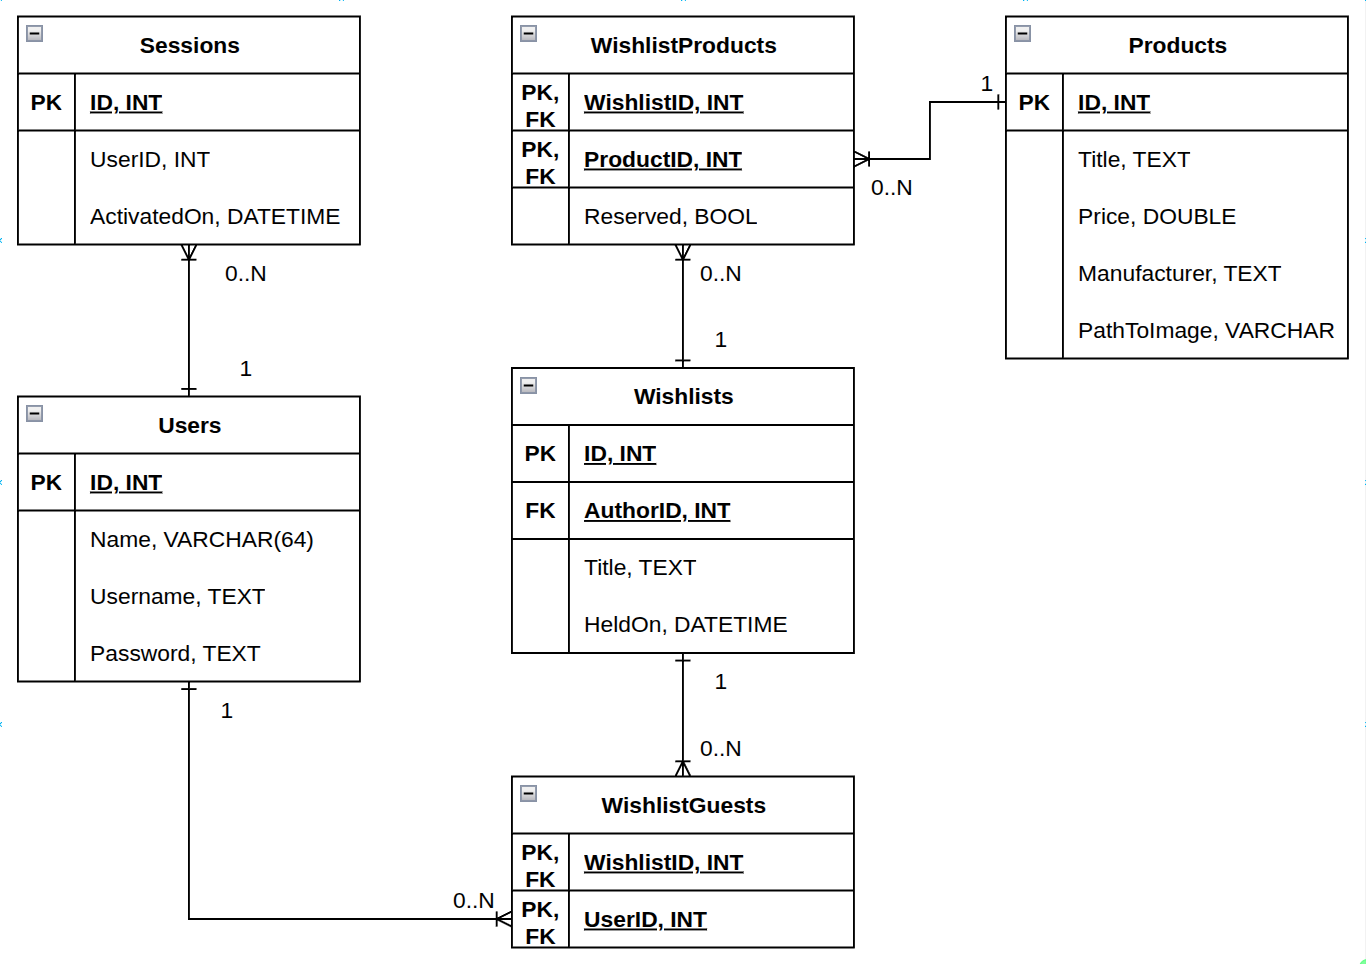
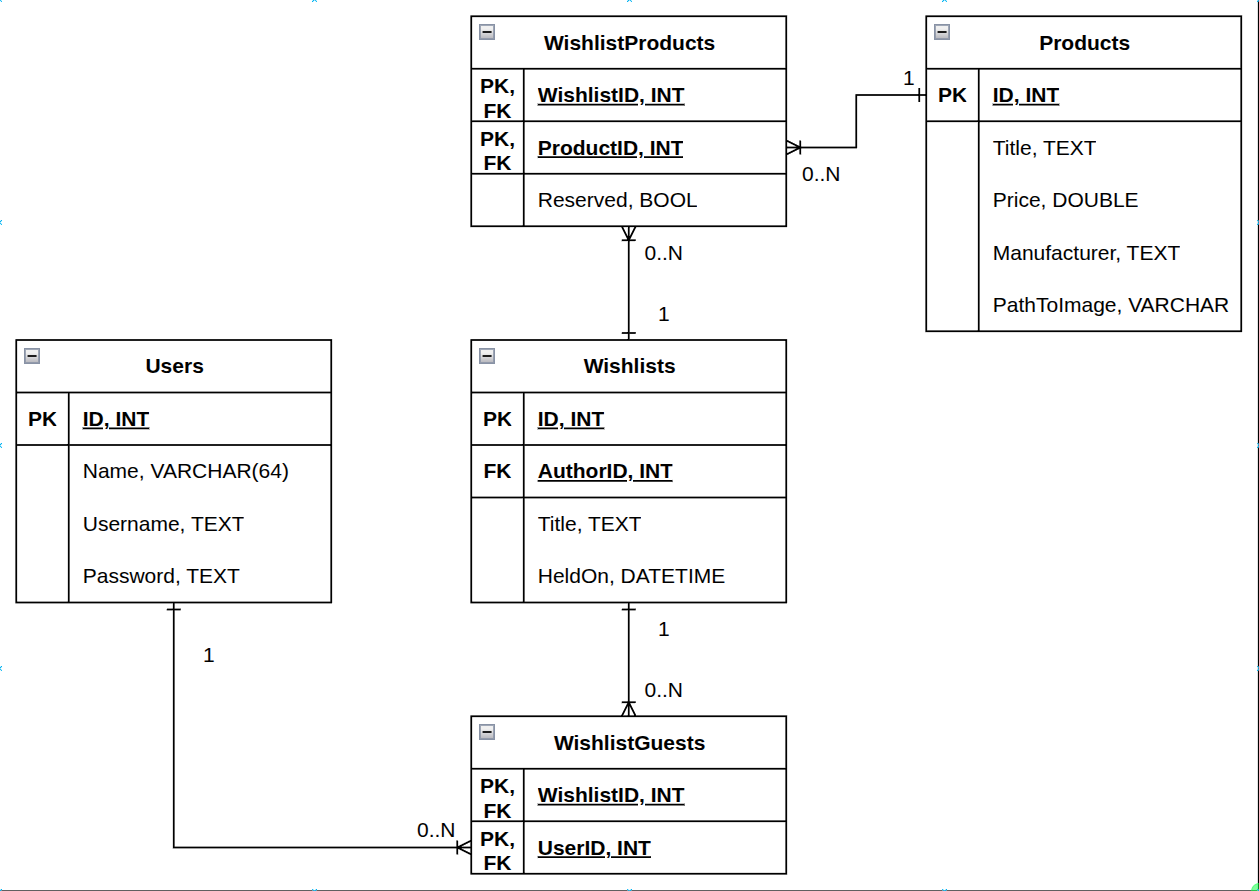
IKKE FÆRDIG; MERGE IKKE ENDNU.
Konfigureret MySQL for JDBC.
Opdateret ER-diagram (Sessions styres automatisk, JDBC Sessions laver selv tabel).

Delete-funktioner til wishlist, UserRepo-funktioner.

diff --git a/src/main/java/com/wishlist/Repository/UserRepository.java b/src/main/java/com/wishlist/Repository/UserRepository.java
@@ -1,6 +1,8 @@
 package com.wishlist.Repository;
 
+import com.wishlist.Model.User;
 import com.wishlist.Model.UserRowMapper;
+import jakarta.servlet.http.HttpSession;
 import org.springframework.beans.factory.annotation.Value;
 import org.springframework.jdbc.core.JdbcTemplate;
 
@@ -22,5 +24,31 @@ public class UserRepository {
         this.userRowMapper = userRowMapper;
     }
 
+    public int addUser(User user) {
+        return jdbcTemplate.update("INSERT IGNORE INTO Users (Name, Username, Password) VALUES (?, ?, ?);",
+                user.getName(), user.getUsername(), user.getPassword());
+    }
 
+    // Todo: Select which one we'll use when templates are done.
+    public int deleteUser(User user) {
+        return jdbcTemplate.update("DELETE FROM Users WHERE ID = ?;", user.getID());
+    }
+
+    public int deleteUserByID(int userID) {
+        return jdbcTemplate.update("DELETE FROM Users WHERE ID = ?;", userID);
+    }
+
+    public boolean isLoggedIn(HttpSession session) {
+        return !session.getAttribute("username").toString().isEmpty();
+    }
+
+    public boolean canViewWishlist(int wishlistID, int userID) {
+        return Boolean.TRUE.equals(jdbcTemplate.queryForObject("SELECT COUNT(*) > 0 FROM WishlistGuests WHERE WishlistID = ? AND UserID = ?;",
+                boolean.class, wishlistID, userID));
+    }
+
+    public int reserveWish(int wishlistID, int productID) {
+        return jdbcTemplate.update("UPDATE WishlistProducts SET Reserved = TRUE WHERE WishlistID = ? AND ProductID = ?;",
+                wishlistID, productID);
+    }
 }

diff --git a/src/main/java/com/wishlist/Repository/WishlistRepository.java b/src/main/java/com/wishlist/Repository/WishlistRepository.java
@@ -62,9 +62,21 @@ public class WishlistRepository {
     public List<Wishlist> getAllWishlistsUserIsInvitedTo(int userID) {
         return jdbcTemplate.queryForList("SELECT Wishlists.ID, Wishlists.Title, Wishlists.AuthorID, Wishlists.HeldOn, Products.Title, Products.Price, Products.Manufacturer, Products.PathToImage, WishlistProducts.Reserved\n" +
                 "FROM Wishlists \n" +
-                "JOIN WishlistGuests ON Wishlists.ID = WishlistGuests.WishlistID\n" + // This does the filtering
+                "JOIN WishlistGuests ON Wishlists.ID = WishlistGuests.WishlistID\n" +
                 "LEFT JOIN WishlistProducts ON Wishlists.ID = WishlistProducts.WishlistID \n" +
                 "LEFT JOIN Products ON WishlistProducts.ProductID = Products.ID\n" +
                 "WHERE WishlistGuests.UserID = ?;", Wishlist.class, userID);
+    }
+
+    // ToDo: Verify that cascading works as expected
+    // (Entries in corresponding junction tables should also be removed)
+    public int deleteWishlistByID(int wishlistID) {
+        return jdbcTemplate.update("DELETE FROM Wishlists WHERE ID = ?;", wishlistID);
+    }
+
+    // ToDo: Verify that cascading works as expected
+    // (Entries in corresponding junction tables should also be removed)
+    public int deleteWishlistsByUser(int userID) {
+        return jdbcTemplate.update("DELETE FROM Wishlists WHERE AuthorID = ?", userID);
     }
 }
